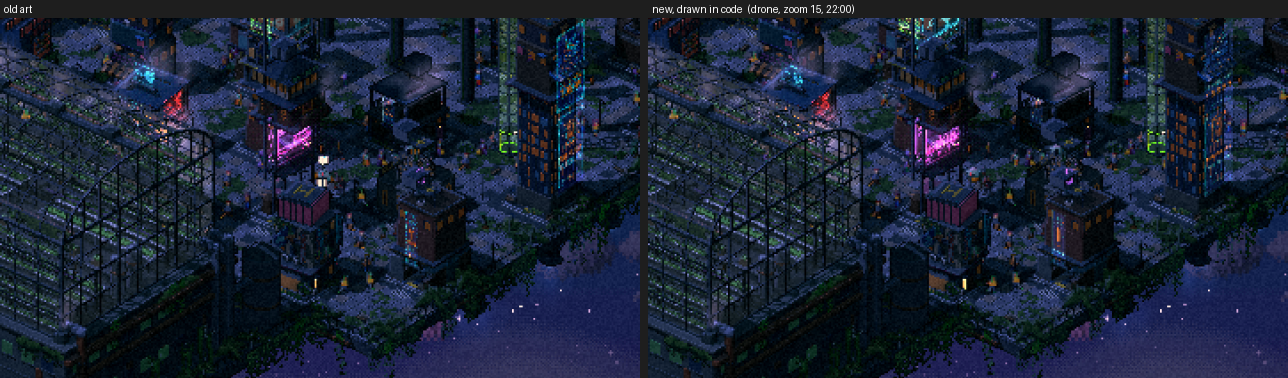
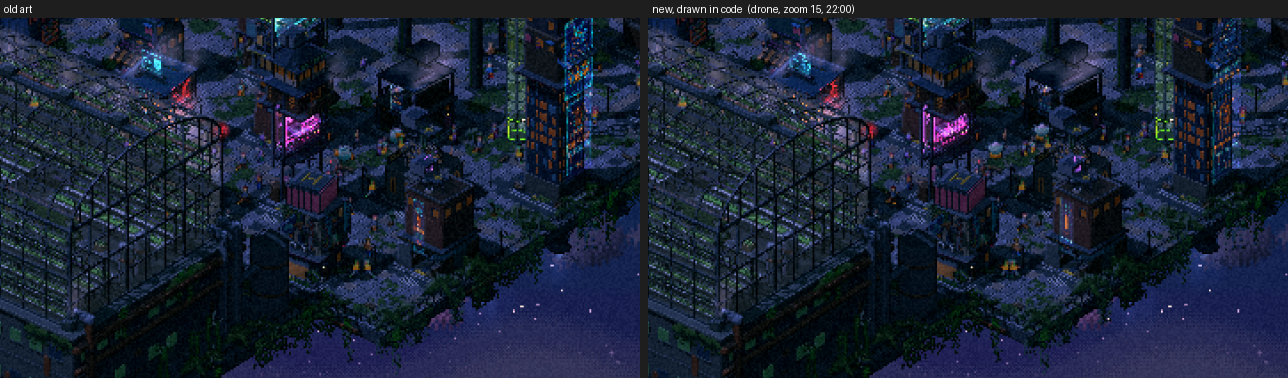
Procedural art: new sheets for the revised koi and drone, REVIEW.md updated, bump the ?v= tags
Claude-Session: https://claude.ai/code/session_014FicyaXC5so6tAi2SHBnGK

diff --git a/index.html b/index.html
@@ -8,7 +8,7 @@
 <link rel="preconnect" href="https://fonts.gstatic.com" crossorigin>
 <link href="https://fonts.googleapis.com/css2?family=Silkscreen&family=JetBrains+Mono:wght@400;600&display=swap" rel="stylesheet">
 <link rel="icon" href="data:,">
-<link rel="stylesheet" href="css/style.css?v=2026-10-11n">
+<link rel="stylesheet" href="css/style.css?v=2026-10-11o">
 </head>
 <body>
 
@@ -203,42 +203,42 @@
 <script src="https://cdnjs.cloudflare.com/ajax/libs/three.js/r128/three.min.js"></script>
 <script src="https://cdn.jsdelivr.net/npm/three@0.128.0/examples/js/utils/BufferGeometryUtils.js"></script>
 <!-- ?v= makes browsers fetch fresh copies after an update; change it with every release -->
-<script src="js/matreg.js?v=2026-10-11n"></script>
-<script src="js/core.js?v=2026-10-11n"></script>
-<script src="js/spritegen.js?v=2026-10-11n"></script>
-<script src="js/spritegen_grass.js?v=2026-10-11n"></script>
-<script src="js/spritegen_shrubs.js?v=2026-10-11n"></script>
-<script src="js/spritegen_hang.js?v=2026-10-11n"></script>
-<script src="js/spritegen_lawn.js?v=2026-10-11n"></script>
-<script src="js/artgen.js?v=2026-10-11n"></script>
-<script src="js/artgen_tools.js?v=2026-10-11n"></script>
-<script src="js/artgen_icons.js?v=2026-10-11n"></script>
-<script src="js/artgen_vox.js?v=2026-10-11n"></script>
-<script src="js/artgen_koi.js?v=2026-10-11n"></script>
-<script src="js/artgen_wanted.js?v=2026-10-11n"></script>
-<script src="js/artgen_ads.js?v=2026-10-11n"></script>
-<script src="js/artgen_air.js?v=2026-10-11n"></script>
-<script src="js/artgen_walls.js?v=2026-10-11n"></script>
-<script src="js/sprites.js?v=2026-10-11n"></script>
-<script src="js/buildings.js?v=2026-10-11n"></script>
-<script src="js/ground.js?v=2026-10-11n"></script>
-<script src="js/vehicles.js?v=2026-10-11n"></script>
-<script src="js/sky.js?v=2026-10-11n"></script>
-<script src="js/looks.js?v=2026-10-11n"></script>
-<script src="js/lookui.js?v=2026-10-11n"></script>
-<script src="js/audio.js?v=2026-10-11n"></script>
-<script src="js/world.js?v=2026-10-11n"></script>
-<script src="js/mega.js?v=2026-10-11n"></script>
-<script src="js/people.js?v=2026-10-11n"></script>
-<script src="js/highway.js?v=2026-10-11n"></script>
-<script src="js/metro.js?v=2026-10-11n"></script>
-<script src="js/recipe.js?v=2026-10-11n"></script>
-<script src="js/loadcity.js?v=2026-10-11n"></script>
-<script src="js/music.js?v=2026-10-11n"></script>
-<script src="js/input.js?v=2026-10-11n"></script>
-<script src="js/perfhud.js?v=2026-10-11n"></script>
-<script src="js/staticcache.js?v=2026-10-11n"></script>
-<script src="js/neverseen.js?v=2026-10-11n"></script>
-<script src="js/main.js?v=2026-10-11n"></script>
+<script src="js/matreg.js?v=2026-10-11o"></script>
+<script src="js/core.js?v=2026-10-11o"></script>
+<script src="js/spritegen.js?v=2026-10-11o"></script>
+<script src="js/spritegen_grass.js?v=2026-10-11o"></script>
+<script src="js/spritegen_shrubs.js?v=2026-10-11o"></script>
+<script src="js/spritegen_hang.js?v=2026-10-11o"></script>
+<script src="js/spritegen_lawn.js?v=2026-10-11o"></script>
+<script src="js/artgen.js?v=2026-10-11o"></script>
+<script src="js/artgen_tools.js?v=2026-10-11o"></script>
+<script src="js/artgen_icons.js?v=2026-10-11o"></script>
+<script src="js/artgen_vox.js?v=2026-10-11o"></script>
+<script src="js/artgen_koi.js?v=2026-10-11o"></script>
+<script src="js/artgen_wanted.js?v=2026-10-11o"></script>
+<script src="js/artgen_ads.js?v=2026-10-11o"></script>
+<script src="js/artgen_air.js?v=2026-10-11o"></script>
+<script src="js/artgen_walls.js?v=2026-10-11o"></script>
+<script src="js/sprites.js?v=2026-10-11o"></script>
+<script src="js/buildings.js?v=2026-10-11o"></script>
+<script src="js/ground.js?v=2026-10-11o"></script>
+<script src="js/vehicles.js?v=2026-10-11o"></script>
+<script src="js/sky.js?v=2026-10-11o"></script>
+<script src="js/looks.js?v=2026-10-11o"></script>
+<script src="js/lookui.js?v=2026-10-11o"></script>
+<script src="js/audio.js?v=2026-10-11o"></script>
+<script src="js/world.js?v=2026-10-11o"></script>
+<script src="js/mega.js?v=2026-10-11o"></script>
+<script src="js/people.js?v=2026-10-11o"></script>
+<script src="js/highway.js?v=2026-10-11o"></script>
+<script src="js/metro.js?v=2026-10-11o"></script>
+<script src="js/recipe.js?v=2026-10-11o"></script>
+<script src="js/loadcity.js?v=2026-10-11o"></script>
+<script src="js/music.js?v=2026-10-11o"></script>
+<script src="js/input.js?v=2026-10-11o"></script>
+<script src="js/perfhud.js?v=2026-10-11o"></script>
+<script src="js/staticcache.js?v=2026-10-11o"></script>
+<script src="js/neverseen.js?v=2026-10-11o"></script>
+<script src="js/main.js?v=2026-10-11o"></script>
 </body>
 </html>

diff --git a/tools/procart/REVIEW.md b/tools/procart/REVIEW.md
@@ -23,7 +23,7 @@ Sizes, aspect ratios, layouts, shaders, uvs and builders are unchanged, so plots
 ## 2. The comparison sheets (`tools/procart/sheets/`)
 
 - `dump/<name>_1x.png` and `_3x.png`: every asset, the old picture above and the new below (animated ones show every frame: the koi strip, the ad rows, the drone cells, the wanted strip).
-- `game_<scene>_<stop>_z<zoom>_h<hour>.png`: the same view in the game, old art on the left, new on the right (both captured in one page; the switch is flipped between them). Stops: `signs` (a shop street), `badge`, `posters`, `bikes` (the police station), `pond` (the koi), `airholo` and `airholo_hacked` (an air hologram in each state), `wallholo`, `ads`, `drone`. Made: signs, wall holograms and ads at zoom 8, 15 and 30 by day and by night (city); badge, posters, bikes, drone, pond, the two air hologram states and the wall holograms at night (zoom 8 and 15, the max city ones at 15 only). The station art is small at those distances: for the badge, posters and bikes the bare images in `dump/` are the better look.
+- `game_<scene>_<stop>_z<zoom>_h<hour>.png` (the koi and the drone were redone after a revision: pond at zoom 8, 15, 30 by day and night, drone at zoom 8, 15, 30 by day and night): the same view in the game, old art on the left, new on the right (both captured in one page; the switch is flipped between them). Stops: `signs` (a shop street), `badge`, `posters`, `bikes` (the police station), `pond` (the koi), `airholo` and `airholo_hacked` (an air hologram in each state), `wallholo`, `ads`, `drone`. Made: signs, wall holograms and ads at zoom 8, 15 and 30 by day and by night (city); badge, posters, bikes, drone, pond, the two air hologram states and the wall holograms at night (zoom 8 and 15, the max city ones at 15 only). The station art is small at those distances: for the badge, posters and bikes the bare images in `dump/` are the better look.
 - `radio_old_new.png`: the cassette in the page's own CSS at 118 x 88 (old, new, new with the reels turned 45 degrees: they line up).
 - Regenerate: `python3 tools/procart/sheet.py` (all), `--stops signs,ads --zooms 15 --hours 22` for a few, `python3 tools/procart/dump.py NAME ...` for the bare images. `tools/procart/features.py` lists which scene has what (`features.json`): the signs, ads, wall holograms and drones are in city and dense; the police station and bikes in megas; the pond and the air holograms only in maxcity.
 
@@ -33,9 +33,9 @@ F3, "Exact timing" on, then **old art (as before)** in the Tests row; click agai
 
 ## 4. Where to look first (weak spots)
 
-- **Drone:** a plain round body, smaller than the old (13 px against 15), the antennae are gone, the parcel hangs under the belly and is hidden from some angles. If it does not pass your eye, the licensed drone pack is the fallback (not used).
+- **Drone (revised):** about the old size (20 x 17 or 18 px; the old 18 to 22 x 17 to 18), two small antennae back, a round teal body with a lavender dome and a ring of small rotor discs, and a clear orange parcel under the belly on short straps, at least 34 orange pixels in each of the 8 views (the old had 29 to 46); lit pixels per cell 215 to 219 (old 188 to 222). The ring of rotors reads a little spikier than the old art (which had two dark side bars), and the antennae are thin. If it still does not pass your eye, the licensed drone pack is the fallback (not used).
 - **Bike:** smoother and flatter than the old hull, reads a little boat-like from the side; the 8 views agree with each other and the rider's seat is within 2 px of where it was (people.js is unchanged).
-- **Koi:** 1 px outlines, lighter than the old 2 px glowing tubes; the leaping koi are gone (a leap does not loop). Frames now flow into each other; the glitch shader is unchanged, so you may want to calm the glitches (`KOI_SHADER` in `mega.js`).
+- **Koi (revised):** two filled koi (66 and 60 px long, one pink-orange, one blue-violet) with bright 2 px outlines, filled fins and tail, a filled lotus and bright 2 px ripples, matching the old sheet's coverage and brightness: lit pixels per frame 4,475 to 4,811 (average 4,592) against the old 4,056 to 6,065 (average 5,037), sum of brightness 1,060 to 1,136 against 824 to 1,315 (averages 1,087 and 1,072), no partial alpha; the 10 frames loop (the step from frame 9 to 0 is about 11% larger than the others: a ripple drops and a new one is born at the lotus). In the game at night the pond reads warmer (more orange and red) than the old pink-blue glow. The leaping koi are gone (a leap does not loop). The frames flow into each other; the glitch shader is unchanged, so you may want to calm the glitches (`KOI_SHADER` in `mega.js`). The tail fork is a little angular and the two koi pass close to each other.
 - **Hologram ads:** the old ones were solid colored masses; the new are white-grey line and fill art that the shader tints. After a first pass that was thinner than the old, the robots, dish and dancer were thickened to the old coverage. The portrait ads now have a one-line label across the top, not a text panel at the side; "BOT SHOP / ROBOT REPAIR" alternation became "BOT SHOP" only, and "MEET YOUR NEW BEST FRIEND" is "MY FRIEND" (the scrolling slogans under the boards are unchanged).
 - **Big boards:** the brush lettering on the hacked side is chunkier than the old spray paint (whole-pixel shear); the hacked boards are sparser than the old noise (the shader's own glitches add some); the ships and the eye are simpler. All lettering is upper case (the fonts have none).
 - **Wall holograms:** flatter and with a fainter glow than the old ones; "CALL THE GROUND" is on two lines.
@@ -56,8 +56,8 @@ Counted in pixels and timed in headless Chromium (`python3 tools/procart/load_ti
 
 | | pixels | first (cold) run | later runs |
 |---|---:|---:|---:|
-| in the load itself: 46 shop signs and the badge, the drone and bike textures, the cassette | about 39,000 | 36 ms | 6 ms |
-| just after load (deferred, one board a turn): the koi, wanted posters, hologram ads, six big boards, wall atlas | about 1.79 million | 120 ms | 55 to 60 ms |
+| in the load itself: 46 shop signs and the badge, the drone and bike textures, the cassette | about 39,700 | 38 ms | 6 to 11 ms |
+| just after load (deferred, one board a turn): the koi, wanted posters, hologram ads, six big boards, wall atlas | about 1.82 million | 117 ms | 60 to 72 ms |
 
 Both are under the 150 ms budget, and the second set does not block the load. On your machine, with the game open (two lines in the console; they print the full generator time and the signs alone):
 
@@ -68,7 +68,7 @@ const u = performance.now(); for (const k of ART.SIGNS) SG.draw(k, k === 'sign_p
 
 ## 7. Checks that were run
 
-- Harness diff with `window.__OLD_ART = true` against 8768d16: **0 problems** on city, dense and megas (53 captures, quick set), and on the max city at two steps (`noon_f1`, `night_zoom_out`; the max city's other steps were left out to stay under 10 minutes). That covers the signs, ads, wall holograms and drones (city and dense), the police station and bikes (megas), the pond and the air holograms (maxcity). Also 0 problems with nothing registered, before any drawing was added (the plumbing commit).
+- Harness diff with `window.__OLD_ART = true` against 8768d16: **0 problems** on city, dense and megas (53 captures, quick set), and on the max city at two steps (`noon_f1`, `night_zoom_out`; all of this was run again after the koi and drone revision, same results; the max city's other steps were left out to stay under 10 minutes). That covers the signs, ads, wall holograms and drones (city and dense), the police station and bikes (megas), the pond and the air holograms (maxcity). Also 0 problems with nothing registered, before any drawing was added (the plumbing commit).
 - `recipe_proof.py --worker`: **0 of 227 plots differ on city, 0 of 267 on megas**, no page errors.
 - Real page with the worker on (`python3 tools/procart/realpage.py maxcity`: the max city has the police station, the club, the pond and the air-filter tower): the worker comes up ready, zoom 8, 15, 30 with turning, the air hologram held at the ad, the glitch, the hacked picture and back, and four flips of "old art (as before)" ran with **no page errors and no failed requests**. No delivery drone happened to be in flight in that run (drones were captured in the city scene instead: `game_city_drone_*`).
 - The new art in the game was looked at in the sheets above (day and night, zoom 8, 15 and 30 where made); the air holograms in both states.
